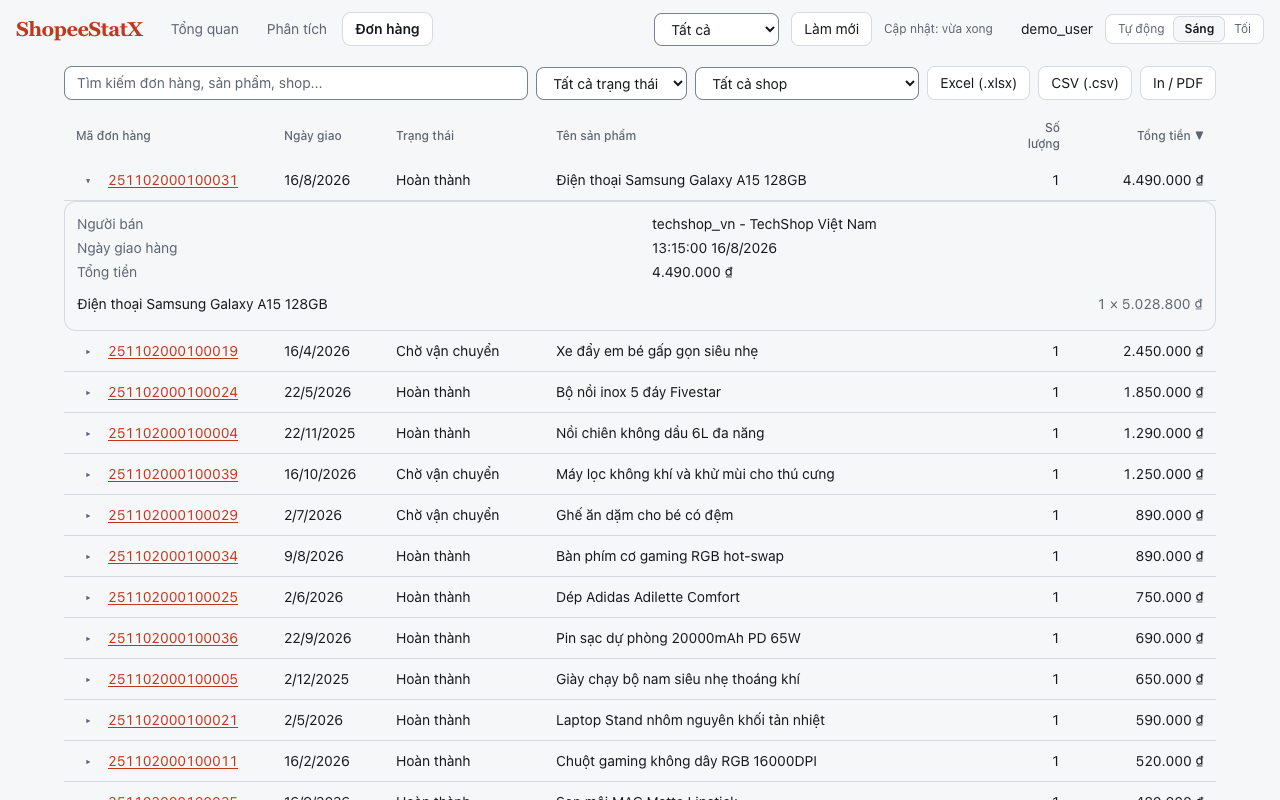
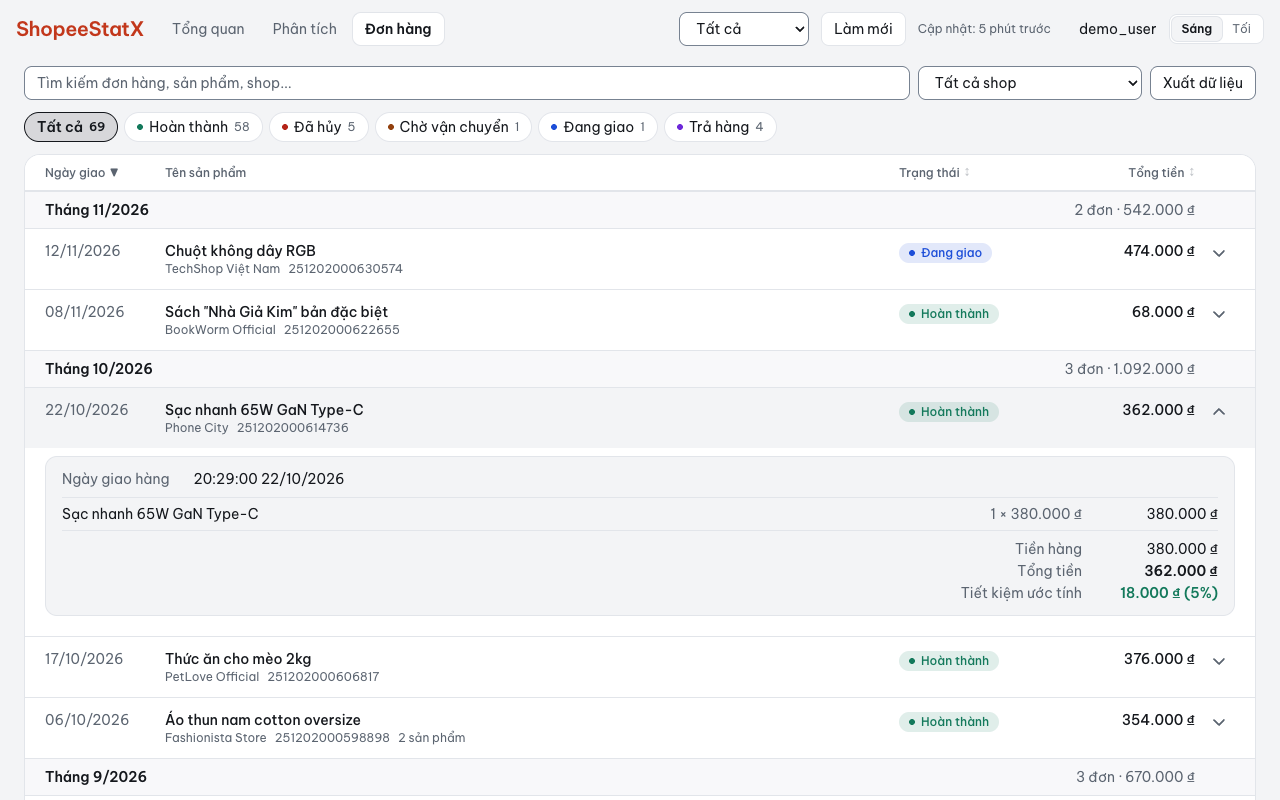
chore: release 3.5.0 with recaptured screenshots, promo tile and current docs

diff --git a/docs/guide/Huong_dan.md b/docs/guide/Huong_dan.md
@@ -1,6 +1,6 @@
 # Hướng dẫn sử dụng ShopeeStatX
 
-Dashboard có ba màn hình ở thanh điều hướng phía trên: **Tổng quan**, **Phân tích** và **Đơn hàng**. Khi cửa sổ hẹp, thanh này chuyển xuống dưới cùng và bảng đơn hàng chuyển thành danh sách thẻ. Giao diện có ba chế độ màu **Tự động / Sáng / Tối**, chọn ở góc trên.
+Dashboard có ba màn hình ở thanh điều hướng phía trên: **Tổng quan**, **Phân tích** và **Đơn hàng**. Khi cửa sổ hẹp, thanh này chuyển xuống dưới cùng và bảng đơn hàng chuyển thành danh sách thẻ. Giao diện có hai chế độ màu **Sáng** (mặc định) và **Tối**, chọn ở góc trên.
 
 ## 🚀 Bắt đầu
 
@@ -16,8 +16,9 @@ Bộ chọn **Khoảng thời gian** ở đầu trang áp dụng cho cả ba mà
 
 - **Chi tiêu ròng**: tổng chi tiêu của các đơn hợp lệ, kèm mức tăng/giảm so với tháng trước và năm trước.
 - Bốn ô số liệu: **Số đơn**, **Trung bình/đơn**, **Hoàn tiền**, **Tiết kiệm ước tính**.
-- Biểu đồ **Chi tiêu theo tháng** (bấm **Xem bảng số liệu** để xem dạng bảng) và danh sách **Top shop**.
-- **Khoe với bạn bè (tạo ảnh)** tạo ảnh PNG chỉ gồm số liệu tổng hợp, không có tên shop, mã đơn hay tên sản phẩm.
+- Biểu đồ **Chi tiêu theo tháng** với đường trung bình mỗi tháng; bấm một cột để xem riêng tháng đó, hoặc chọn **Bảng số liệu** để xem dạng bảng.
+- **Top shop**: bấm một shop để mở danh sách đơn của shop đó.
+- **Tạo ảnh chia sẻ** tạo ảnh PNG chỉ gồm số liệu tổng hợp, không có tên shop, mã đơn hay tên sản phẩm.
 
 > Đơn **đã hủy**, **trả hàng** và **chờ thanh toán** không tính vào chi tiêu. **Tiết kiệm ước tính** là tổng giá sản phẩm trừ số đã trả; Shopee không cho biết riêng voucher hay freeship (xem [docs/shopee-order-api.md](../shopee-order-api.md)).
 
@@ -26,16 +27,16 @@ Nếu thấy "—" ở **Hoàn tiền** hoặc **Tiết kiệm**, dữ liệu đ
 ## 📋 Đơn hàng
 
 - **Tìm kiếm** theo mã đơn, tên sản phẩm hoặc shop (kết quả hiện ngay).
-- Lọc theo **trạng thái** và **shop**; **sắp xếp** theo ngày giao, trạng thái hoặc tổng tiền.
-- Phân trang; bấm một đơn để xem chi tiết sản phẩm. Đơn bị loại được ghi rõ cùng giá trị gốc.
-- **Xuất dữ liệu**: Excel (.xlsx), CSV hoặc In / PDF. File xuất đúng theo khoảng thời gian và bộ lọc đang áp dụng.
+- Lọc theo **trạng thái** (hàng nút kèm số đơn) và **shop**; **sắp xếp** theo ngày giao, trạng thái hoặc tổng tiền.
+- Đơn được nhóm theo tháng, có tổng tiền ở cuối danh sách; phân trang; bấm một đơn để xem chi tiết sản phẩm và tiết kiệm ước tính của đơn. Đơn bị loại được ghi rõ cùng giá trị gốc.
+- Menu **Xuất dữ liệu**: Excel (.xlsx), CSV hoặc In / PDF. File xuất đúng theo khoảng thời gian và bộ lọc đang áp dụng.
 
 ## 🔎 Phân tích
 
 - **Biểu đồ nhiệt** số đơn mỗi ngày (tối đa 12 tháng gần nhất của khoảng đã chọn), có thể cuộn ngang.
-- **Thói quen mua sắm**: ngày trong tuần và giờ mua nhiều nhất, chuỗi tháng liên tiếp, sản phẩm mua nhiều nhất và đắt nhất, cùng bảng **shop thân thiết**.
+- **Thói quen mua sắm**: ngày trong tuần và giờ mua nhiều nhất, chuỗi tháng liên tiếp, sản phẩm mua nhiều nhất và đắt nhất, cùng bảng **shop thân thiết**; bấm một shop hoặc sản phẩm để mở các đơn liên quan.
 - **Nhận xét** tự động từ dữ liệu của bạn.
-- **Dự đoán và ngân sách**: đặt hạn mức hàng tháng và ngưỡng cảnh báo; ShopeeStatX dự kiến chi tiêu cuối tháng và báo nếu có thể vượt ngân sách.
+- **Dự đoán và ngân sách**: so chi tiêu tháng này với một tháng trung bình; đặt hạn mức hàng tháng và ngưỡng cảnh báo; ShopeeStatX dự kiến chi tiêu cuối tháng và báo nếu có thể vượt ngân sách.
 
 ## 🔄 Cập nhật dữ liệu
 

diff --git a/store-assets/screenshots/README.md b/store-assets/screenshots/README.md
@@ -4,21 +4,21 @@ Five **1280 × 800 PNG** images show the current dashboard and popup. They are s
 
 ## Current set
 
-Captured from the 3.4.1 source after the dashboard layout repair. These images describe the source build, not a claim that this build has already been published to the Store.
+Captured from the 3.5.0 source after the November 2026 redesign. These images describe the source build, not a claim that this build has already been published to the Store.
 
 | File | Captured state |
 | --- | --- |
-| `01-summary-cards.png` | Overview: net spend, month/year comparisons, refunds, estimated savings, monthly chart and top shops |
-| `02-charts.png` | Analysis: spending insights, enabled monthly budget, habits and product rankings; the heatmap continues below the viewport |
-| `03-order-details.png` | Orders: total sorted descending, one completed order expanded with line items |
+| `01-summary-cards.png` | Overview: net spend, same-period month/year comparisons, refunds, estimated savings, monthly chart with average line and top shops |
+| `02-charts.png` | Analysis: spending insights, enabled monthly budget, daily heatmap, habits; repeat shops and products continue below the viewport |
+| `03-order-details.png` | Orders: grouped by month, one completed order expanded with line items and estimated savings |
 | `04-orders-table.png` | Orders: completed-status filter, total sorted descending, export controls |
-| `05-popup.png` | Actual 380px popup centered on a neutral 1280 × 800 canvas; Start enabled through a mock host, with an explicit demo caption |
+| `05-popup.png` | Actual 380px popup centered on a neutral 1280 × 800 canvas; Start enabled and cached-orders summary through a mock host, with an explicit demo caption |
 
 ## Capture rules
 
 1. Run `npm run dev`; open `http://localhost:5173/dashboard-app/dashboard.html`. Outside the extension, the dashboard uses mock data and makes no Shopee requests.
 2. Use a **1280 × 800 CSS-pixel viewport at device scale factor 1**, Light mode, normal zoom. Confirm the saved PNG is also 1280 × 800; a high-DPI screenshot is not the same size as its viewport.
-3. Use deterministic fictional data. This set uses 40 orders from the existing mock products/shops, dates from November 2025 through October 2026, synthetic order IDs beginning `251102000100001`, and account `demo_user`. Fix the dashboard clock to 24 October 2026. Set a 2,000,000₫ monthly budget at an 80% warning threshold so the budget and forecast have representative content.
+3. Use deterministic fictional data. This set uses 69 orders (three a month) from fictional products/shops, delivery dates from January 2025 through mid-November 2026, synthetic order IDs beginning `251202000100001`, and account `demo_user`. Fix the dashboard clock to 17 November 2026, 20:30. Set a 3,000,000₫ monthly budget at an 80% warning threshold so the budget and forecast have representative content.
 4. Use real components and host seams to provide the fixture. Do not change production UI, hide controls, alter calculations or paint data onto the screenshot. Give the demo orders item totals above the paid amount to demonstrate estimated savings; keep line-item totals consistent with those values.
 5. Wait for fonts, data and charts to render. Keep the dashboard at the top of its scroll region for this set. Remove transient refresh notices by opening a clean cached-data session, not by hiding the notice element.
 6. Capture Orders both with a real expanded row and with the completed-status filter. Keep labels and amounts readable; do not include private data or browser credentials.

diff --git a/docs/guide/Guide.md b/docs/guide/Guide.md
@@ -1,6 +1,6 @@
 # ShopeeStatX User Guide
 
-The dashboard has three screens in the top navigation: **Overview** (Tổng quan), **Analysis** (Phân tích) and **Orders** (Đơn hàng). On narrow widths the navigation moves to the bottom and the orders table becomes a card list. Pick **Auto / Light / Dark** colors at the top.
+The dashboard has three screens in the top navigation: **Overview** (Tổng quan), **Analysis** (Phân tích) and **Orders** (Đơn hàng). On narrow widths the navigation moves to the bottom and the orders table becomes a card list. Pick **Light** (default) or **Dark** at the top.
 
 ## Getting started
 
@@ -16,7 +16,8 @@ The **Time range** picker at the top applies to all three screens: quick choices
 
 - **Net spend**: total of valid orders, with the change against last month and last year.
 - Four tiles: orders, average per order, refunds, estimated savings.
-- **Spend per month** chart (with a data table) and **Top shops**.
+- **Spend per month** chart with an average-month line; click a bar to view that month, or switch to the data table.
+- **Top shops**: click a shop to open its orders.
 - The share button creates a PNG with aggregate figures only (no shop names, order IDs or product names).
 
 Cancelled, returned and unpaid orders are not counted as spending. Estimated savings is items total minus amount paid; Shopee does not expose vouchers or free shipping separately (see [docs/shopee-order-api.md](../shopee-order-api.md)). If refunds or savings show "—", the cache comes from an older version: use the re-scan button.
@@ -24,15 +25,15 @@ Cancelled, returned and unpaid orders are not counted as spending. Estimated sav
 ## Orders
 
 - Search by order ID, product or shop (results update as you type).
-- Filter by status and shop; sort by delivery date, status or total; paginate; open an order for its product details.
-- Export to Excel (.xlsx), CSV or Print / PDF. Exports follow the active range and filters.
+- Filter by status (chips with counts) and shop; sort by delivery date, status or total. Orders are grouped by month with a total at the foot; paginate; open an order for its products and estimated savings.
+- The **Export** menu offers Excel (.xlsx), CSV or Print / PDF. Exports follow the active range and filters.
 
 ## Analysis
 
 - Daily order **heatmap** (up to the latest 12 months of the selected range).
-- **Buying habits**: busiest weekday and hour, longest monthly streak, most-bought and priciest products, and a **repeat shops** table.
+- **Buying habits**: busiest weekday and hour, longest monthly streak, most-bought and priciest products, and a **repeat shops** table; click a shop or product to open its orders.
 - Automatic **insights**.
-- **Prediction and budget**: set a monthly limit and warning threshold; the end-of-month projection warns if you may exceed it.
+- **Prediction and budget**: this month against an average month; set a monthly limit and warning threshold; the end-of-month projection warns if you may exceed it.
 
 ## Refreshing data
 

diff --git a/README.md b/README.md
@@ -48,7 +48,7 @@ ShopeeStatX là tiện ích Chrome giúp tổng hợp lịch sử mua hàng trê
 
 </details>
 
-Giao diện có **Sáng, Tối và Tự động** theo hệ thống. Khi vùng hiển thị hẹp, bảng đơn chuyển thành thẻ; các bộ lọc và chi tiết đơn vẫn dùng được.
+Giao diện có hai chế độ **Sáng** (mặc định) và **Tối**. Khi vùng hiển thị hẹp, bảng đơn chuyển thành thẻ; các bộ lọc và chi tiết đơn vẫn dùng được.
 
 ## Bắt đầu trong ba bước
 

diff --git a/docs/guide/README-en.md b/docs/guide/README-en.md
@@ -44,7 +44,7 @@ ShopeeStatX is a Chrome extension that turns your **Shopee Vietnam** order histo
 
 </details>
 
-Choose **Light, Dark or Auto**. On narrow containers, orders become cards while filters and details remain available. The interface is currently in Vietnamese.
+Choose **Light** (default) or **Dark**. On narrow containers, orders become cards while filters and details remain available. The interface is currently in Vietnamese.
 
 ## Get started
 
